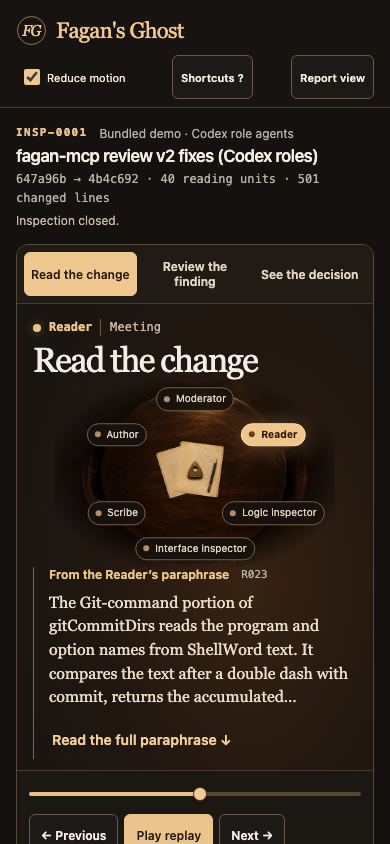
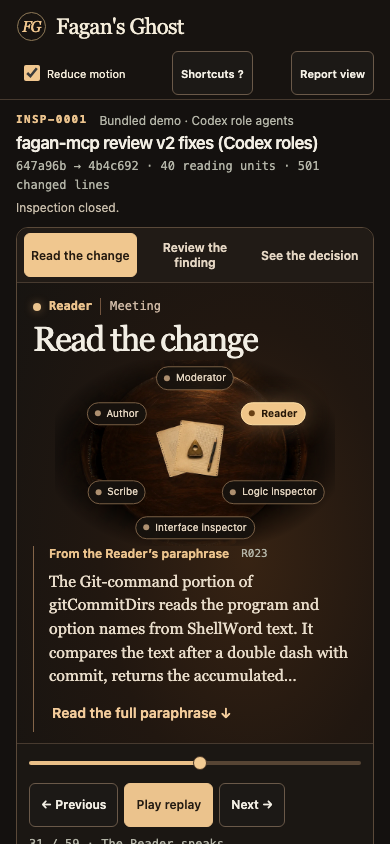
fix(inspection-room): keep replay controls visible on mobile

Changed region(s): [[0.0308, 0.0, 0.9538, 1.0], [0.6769, 0.2773, 0.9231, 0.3389]]

diff --git a/packages/inspection-room/src/room.css b/packages/inspection-room/src/room.css
@@ -729,6 +729,8 @@
 .room-view summary:hover { color: #fff0d8; }
 
 @media (max-width: 670px) {
+  .room-view .masthead { padding-block: 4px; }
+  .room-view .inspection-heading { padding-block: 12px 10px; }
   .room-view .story-guide button {
     padding: 4px 5px;
     font-size: 12px;
@@ -736,7 +738,7 @@
   .story-guide {
     grid-auto-columns: minmax(0, 1fr);
     gap: 2px;
-    padding: 7px 7px;
+    padding: 5px 7px;
   }
   .replay-scene {
     grid-template: "title" "visual" "caption" "playback" / minmax(0, 1fr);
@@ -745,5 +747,7 @@
   .ritual-board { max-width: 280px; }
   .scene-caption { border-top: 0; padding: 0 16px 11px; }
   .replay-scene .paraphrase { font-size: 16px; }
+  .room-view button.scene-action { margin-top: 5px; }
+  .playback { padding-top: 6px; }
   .all-events { margin-left: 0; }
 }

diff --git a/packages/inspection-room/e2e/room.spec.ts b/packages/inspection-room/e2e/room.spec.ts
@@ -54,7 +54,7 @@ test("actual exported inspection: entry, replay, report, keyboard, mobile and co
   await guide.getByRole("button", { name: "Read the change" }).click();
   await page.getByLabel("Reduce motion").check();
   await page.evaluate(() => window.scrollTo(0, 0));
-  await expect(page.getByRole("button", { name: "Play replay" })).toBeInViewport();
+  await expect(page.getByRole("button", { name: "Play replay" })).toBeInViewport({ ratio: 1 });
   await page.screenshot({ path: `test-results/stage-${info.project.name}.png` });
   await stage.getByRole("button", { name: "Read the full paraphrase" }).click();
   await expect(page.locator(".reading-desk .paraphrase")).toContainText("takes a separate value");
